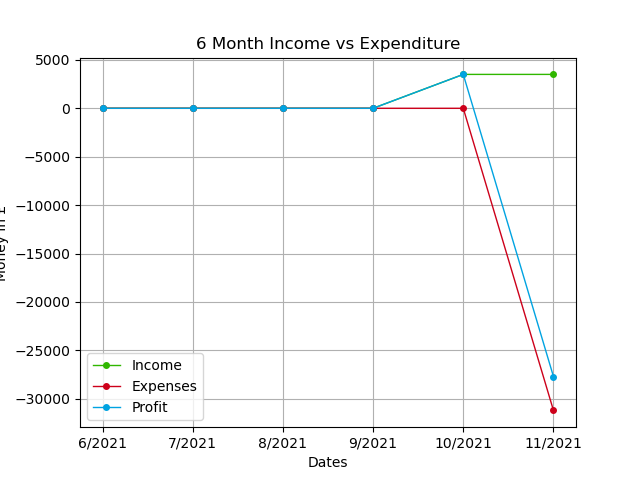
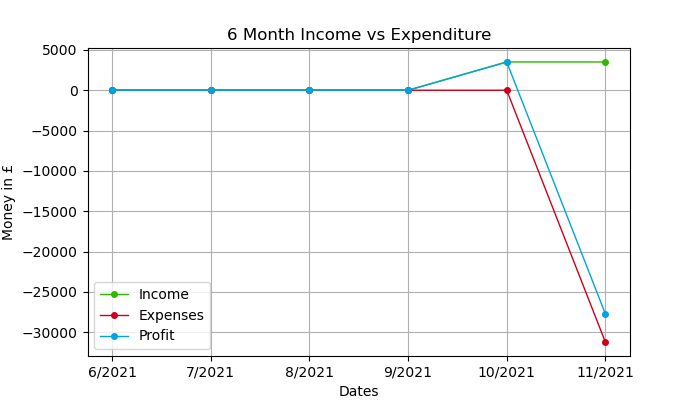
need to add second layer stuff

diff --git a/main.py b/main.py
@@ -714,18 +714,18 @@ def homePage():
             for y in range(len(lastMonthInfo)):
                 lastMonthTotalIncome = lastMonthTotalIncome + float(deScramble(lastMonthInfo[y][0]))
                 lastMonthTotalExpenses = lastMonthTotalExpenses + float(deScramble(lastMonthInfo[y][1])) + float(deScramble(lastMonthInfo[y][2]))
-        tenantInfo = cursor.execute("SELECT tenant_ID FROM tenants WHERE account_ID = '" + scramble(databaseCurrentAccount_ID.data) + "'").fetchall()
-        for x in range(len(tenantInfo)):
-            scarambledtenatnID = tenantInfo[x][0]
-            lastMonthComplaintscomplaintsInfo = cursor.execute("SELECT complaint_ID FROM complaints WHERE month = '" + scramble(month) + "' AND year = '" + scramble(year) + "' AND tenant_ID = '" + scarambledtenatnID + "'").fetchall()
-            for yy in range(len(lastMonthComplaintscomplaintsInfo)):
-                nofComplaitnsLastMomth = nofComplaitnsLastMomth + 1
-            complaintsInfo = cursor.execute("SELECT resoltion FROM complaints WHERE tenant_ID = '" + scarambledtenatnID + "'").fetchall()
-            for xx in range(len(complaintsInfo)):
-                resolution = deScramble(complaintsInfo[xx][0])
-                if resolution == None:
-                    nOfUnresovledComplaints = nOfUnresovledComplaints + 1
-                totalComplaintsNumber = totalComplaintsNumber + 1
+    tenantInfo = cursor.execute("SELECT tenant_ID FROM tenants WHERE account_ID = '" + scramble(databaseCurrentAccount_ID.data) + "'").fetchall()
+    for x in range(len(tenantInfo)):
+        scarambledtenatnID = tenantInfo[x][0]
+        lastMonthComplaintscomplaintsInfo = cursor.execute("SELECT complaint_ID FROM complaints WHERE month = '" + scramble(month) + "' AND year = '" + scramble(year) + "' AND tenant_ID = '" + scarambledtenatnID + "'").fetchall()
+        for yy in range(len(lastMonthComplaintscomplaintsInfo)):
+            nofComplaitnsLastMomth = nofComplaitnsLastMomth + 1
+        complaintsInfo = cursor.execute("SELECT resoltion, complaint_Nature FROM complaints WHERE tenant_ID = '" + scarambledtenatnID + "'").fetchall()
+        for xx in range(len(complaintsInfo)):
+            resolution = deScramble(complaintsInfo[xx][0])
+            if resolution == None:
+                nOfUnresovledComplaints = nOfUnresovledComplaints + 1
+            totalComplaintsNumber = totalComplaintsNumber + 1
 
         #working out tax due
         #getting tax data
@@ -825,6 +825,7 @@ def homePage():
         listOfLastSixMonthExpenses[e] = -listOfLastSixMonthExpenses[e]
     plt.style.use('seaborn-bright')
     plt.clf()
+    plt.figure(figsize=(7,4))
     plt.plot(listOfLastSixMonthsDates, listOfLastSixMonthIncome, label = 'Income', color = '#30B700', linewidth = 1, marker = 'o', markersize = 4)
     plt.plot(listOfLastSixMonthsDates, listOfLastSixMonthExpenses, label = 'Expenses', color = '#CD001A', linewidth = 1, marker = 'o', markersize = 4)
     plt.plot(listOfLastSixMonthsDates, listOfLastSixMonthProfit, label = 'Profit', color = '#00A3E1', linewidth = 1, marker = 'o', markersize = 4)
@@ -839,10 +840,29 @@ def homePage():
 
     #resizing image
     graphImage = Image.open('6_Month_Income_Vs_Expenses.png')
-    resizedGraphImage = graphImage.resize((300,225), Image.ANTIALIAS)
+    resizedGraphImage = graphImage.resize((480,325), Image.ANTIALIAS)
     newPic = ImageTk.PhotoImage(resizedGraphImage)
 
-    graphLabel = Label(image = newPic,border = 0).place(relx = 0.3, rely= 0.3)
+    graphLabel = Label(image = newPic,border = 0).place(relx = 0.31, rely= 0.16)
+
+    totalinward = 0
+    totaloutward = 0 
+    for i in range(6):
+        totalinward = totalinward + listOfLastSixMonthIncome[i]
+        totaloutward = totaloutward + listOfLastSixMonthExpenses[i]
+    averageInward = round(totalinward/6,2)
+    averageOutward = -round(totaloutward/6,2)
+    averfeProfit = averageInward - averageOutward
+    averageProfitMargin = str(round((averfeProfit/averageInward)*100,2)) + '%'
+
+    #placing top half of home page data
+    sixMonthIncomevsExpenditureTitle = Label(root, font=(font.data,'16','bold'), text='6 Month Income vs Expenditure', justify='center', bg=secondry.data,fg=primary.data).place(relx=0.83, rely=0.26, anchor=CENTER)
+    sixMonthIncomevsExpenditure = Label(root, font=(font.data,'14'), text='Average Income : ' + str(averageInward), justify='center', bg=secondry.data,fg=primary.data).place(relx=0.83, rely=0.29, anchor=CENTER)
+    sixMonthIncomevsExpenditureTitle = Label(root, font=(font.data,'14'), text='Average Expenses : ' + str(averageOutward), justify='center', bg=secondry.data,fg=primary.data).place(relx=0.83, rely=0.32, anchor=CENTER)
+    sixMonthIncomevsExpenditure = Label(root, font=(font.data,'14'), text='Average Profit : ' + str(averfeProfit), justify='center', bg=secondry.data,fg=primary.data).place(relx=0.83, rely=0.35, anchor=CENTER)
+    sixMonthIncomevsExpenditure = Label(root, font=(font.data,'14'), text='Average Profit Margnin : ' + str(averageProfitMargin), justify='center', bg=secondry.data,fg=primary.data).place(relx=0.83, rely=0.38, anchor=CENTER)
+
+
     root.mainloop()
 
 def yearMonthSubtraction(month,year,i):
